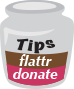
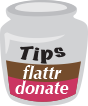
update img readme

diff --git a/README.md b/README.md
@@ -9,11 +9,10 @@ idea-multimarkdown
 
 
 <table>
-<tr><td><a href="http://flattr.com/thing/4603764/vschidea-multimarkdown-on-GitHub" title="Donate monthly to vsch using Flattr"><img src="https://raw.githubusercontent.com/vsch/idea-multimarkdown/master/assets/images/flattr-donate.png" border="0" width="86" height="20" alt="Flattr donate button" /></a></td>
-<td rowspan="2"><b>If you like my work then please feel free to tip me as show of appreciation<br>
-and as a reward for my effort.</b></td>
+<tr><td><a href="http://flattr.com/thing/4603764/vschidea-multimarkdown-on-GitHub" title="Donate monthly to vsch using Flattr"><img src="https://raw.githubusercontent.com/vsch/idea-multimarkdown/master/assets/images/flattr-tips.png" border="0" width="43" height="53" alt="Flattr donate button" /></a>
+<a href="https://www.paypal.com/cgi-bin/webscr?cmd=_s-xclick&hosted_button_id=NR7DAGTC8CXLU" title="Donate once-off to vsch using Paypal"><img src="https://raw.githubusercontent.com/vsch/idea-multimarkdown/master/assets/images/paypal-tips.png" border="0" width="43" height="53" alt="PayPal donate button" /></a></td>
+<td><b>If you like my work then please feel free to tip me.<br>I will view it as a show of appreciation and as a reward for my effort.</b></td>
 </tr>
-<tr><td><a href="https://www.paypal.com/cgi-bin/webscr?cmd=_s-xclick&hosted_button_id=NR7DAGTC8CXLU" title="Donate once-off to vsch using Paypal"><img src="https://raw.githubusercontent.com/vsch/idea-multimarkdown/master/assets/images/paypal-donate.png" border="0" width="86" height="20" alt="PayPal donate button" /></a></td></tr>
 </table>
 
 
